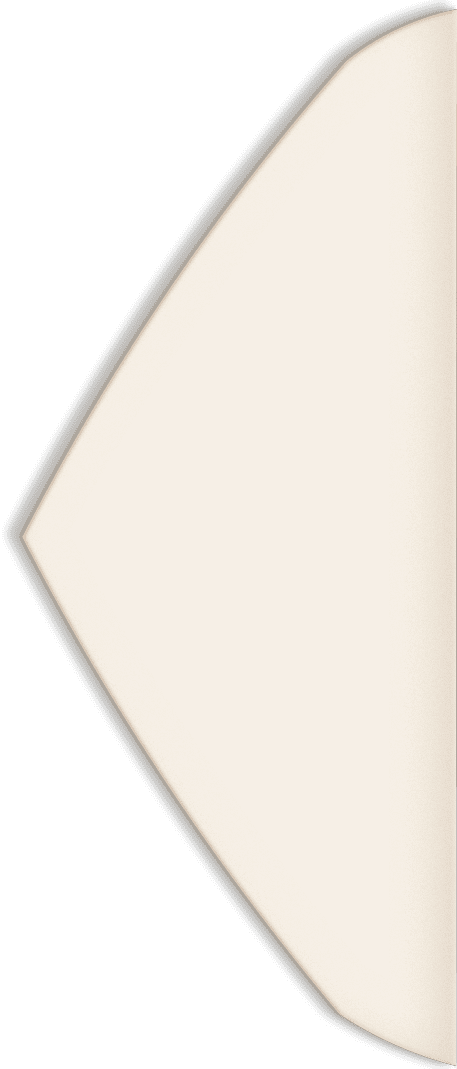
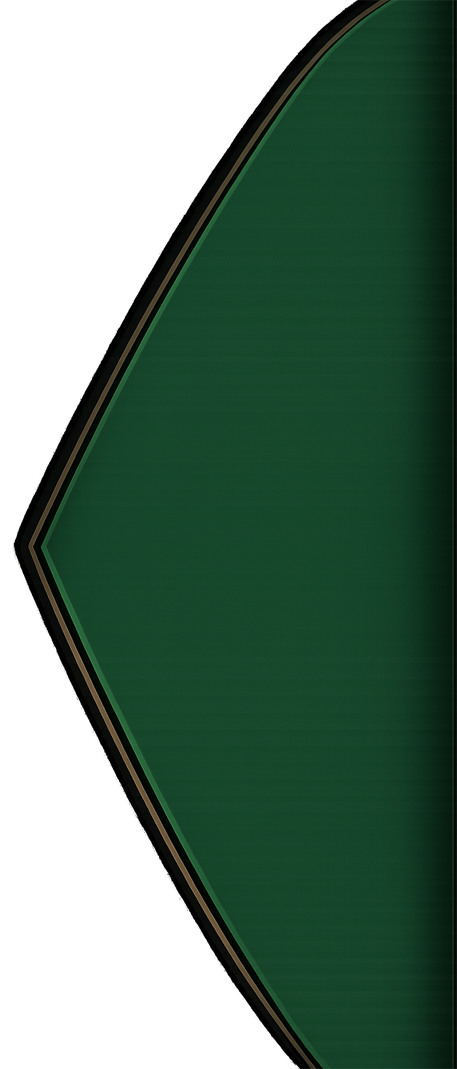
0.0.5

diff --git a/xv-edits.js b/xv-edits.js
@@ -140,6 +140,12 @@
     .border-primary-600 { border-color: var(--xv-ivory) !important; }
     button.carousel-btn { background-color: rgba(138, 90, 32, 0.94) !important; }
 
+    /* Background visible behind the opening envelope and wax seal. */
+    SCM_1_Original .fullscreen-fixed,
+    .fullscreen-fixed[class*="bg-[#eae3d5]"] {
+      background-color: #083226 !important;
+    }
+
     .xv-arrival-notice {
       max-width: 36rem;
       margin: 1.5rem auto 0;

diff --git a/index.html b/index.html
@@ -4864,7 +4864,7 @@
   <script src="language-toggle.js?v=20260721-2"></script>
   <script src="rsvp-button.js?v=20260428-8"></script>
   <script src="gift-qr.js?v=20260429-1"></script>
-  <script src="xv-edits.js?v=20260803-1"></script>
+  <script src="xv-edits.js?v=20260803-2"></script>
   <script defer src="app.bundle.js?v=20260721-2"></script>
 </body>
 
